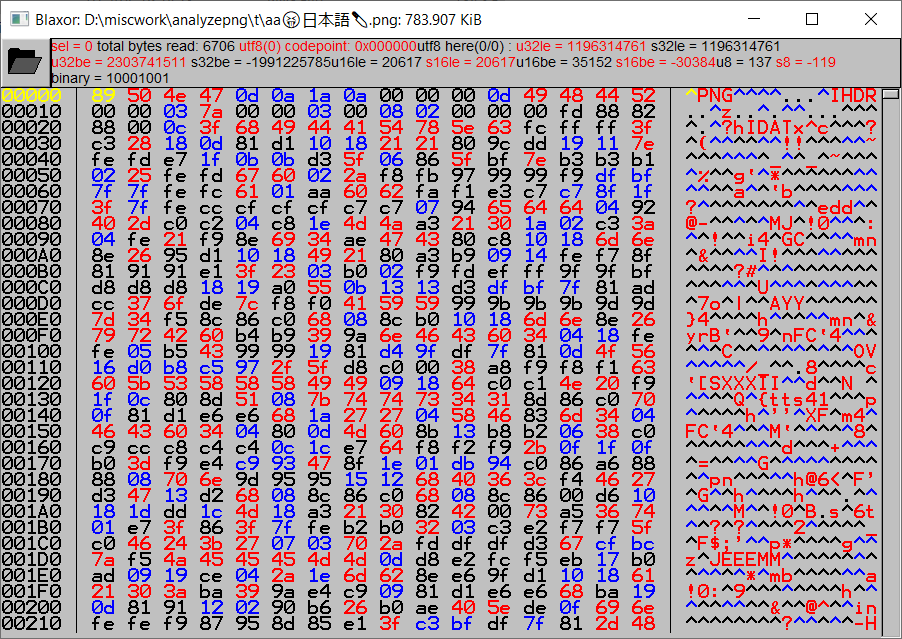
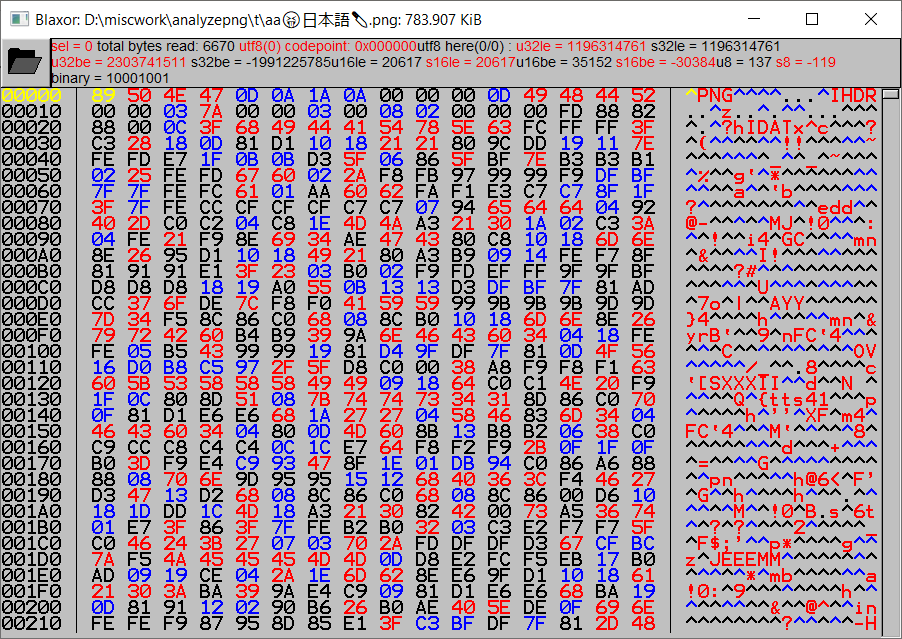
readme mention of hex case and win sshot of it

diff --git a/README.md b/README.md
@@ -2,7 +2,9 @@
 A small hex viewer. Work in progress. Works on both Windows and Linux.
 **I don't recommend using it yet unless you're up for a challenege.**
 If you're interested but can't/don't want to build it or want to know all the
-controls then let me know in an issue on here.
+controls then let me know in an issue here. If you want to look for the keys to
+do search, switch to binary and upper/lowercase hex display, change font size,
+etc. yourself they are all/mostly in `int BlaHexDisplay::handle(int event)`.
 
 Uses:
 1. [FLTK 1.3.5](https://www.fltk.org) (external dependency, not included in this repo).
